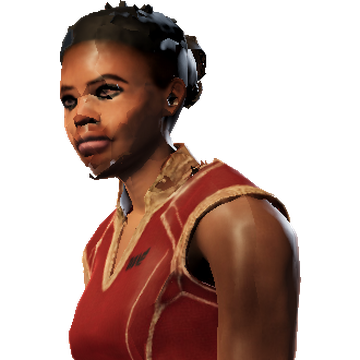
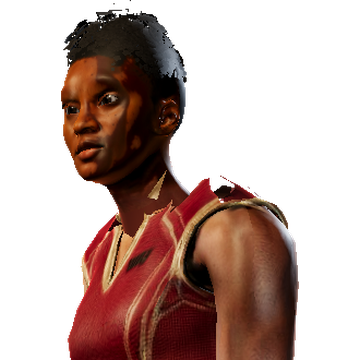
Hero stills: Imani, Kofi, Zuri, Lyra and Tavo re-rendered from the new models (portrait.gd, library idle, the build 22 cut); Oren unchanged

diff --git a/app/components/waleui/heroArt.ts b/app/components/waleui/heroArt.ts
@@ -3,6 +3,8 @@
 // Forge character of their own. Rendered from the game's own models and library idle by
 // game3d/tools/portrait.gd ("full_px": [768, 1152]), cut to the figure; the bust is the top of
 // the same render. About 0.36 MB per hero. Kofi (Blockbusters) was rendered the same way for build 23.
+// Build 26: Imani, Kofi, Zuri, Lyra and Tavo re-rendered from their new hybrid models (new heads and hair;
+// Lyra's new hands); Oren is unchanged.
 import { useGame } from "@/features/game/runtime";
 import { type FactionHero, heroForFaction } from "@/features/waleui/heroCast";
 import { useAppSelector } from "@/store/hooks";
@@ -12,8 +14,7 @@ export type HeroArt = { full: number; bust: number };
 const ART: Record<string, HeroArt> = {
   ascendants_zuri: { full: require("@/assets/images/heroes/ascendants_zuri_full.png"), bust: require("@/assets/images/heroes/ascendants_zuri_bust.png") },
   controllers_tavo: { full: require("@/assets/images/heroes/controllers_tavo_full.png"), bust: require("@/assets/images/heroes/controllers_tavo_bust.png") },
-  // Imani: the hybrid head (fitted head and hair cards, 12 Nov), clearly better than the first render.
-  icons_imani: { full: require("@/assets/images/heroes/icons_imani_full_hybrid.png"), bust: require("@/assets/images/heroes/icons_imani_bust_hybrid.png") },
+  icons_imani: { full: require("@/assets/images/heroes/icons_imani_full.png"), bust: require("@/assets/images/heroes/icons_imani_bust.png") },
   everborn_oren: { full: require("@/assets/images/heroes/everborn_oren_full.png"), bust: require("@/assets/images/heroes/everborn_oren_bust.png") },
   blockbusters_kofi: { full: require("@/assets/images/heroes/blockbusters_kofi_full.png"), bust: require("@/assets/images/heroes/blockbusters_kofi_bust.png") },
   celestials_lyra: { full: require("@/assets/images/heroes/celestials_lyra_full.png"), bust: require("@/assets/images/heroes/celestials_lyra_bust.png") },
